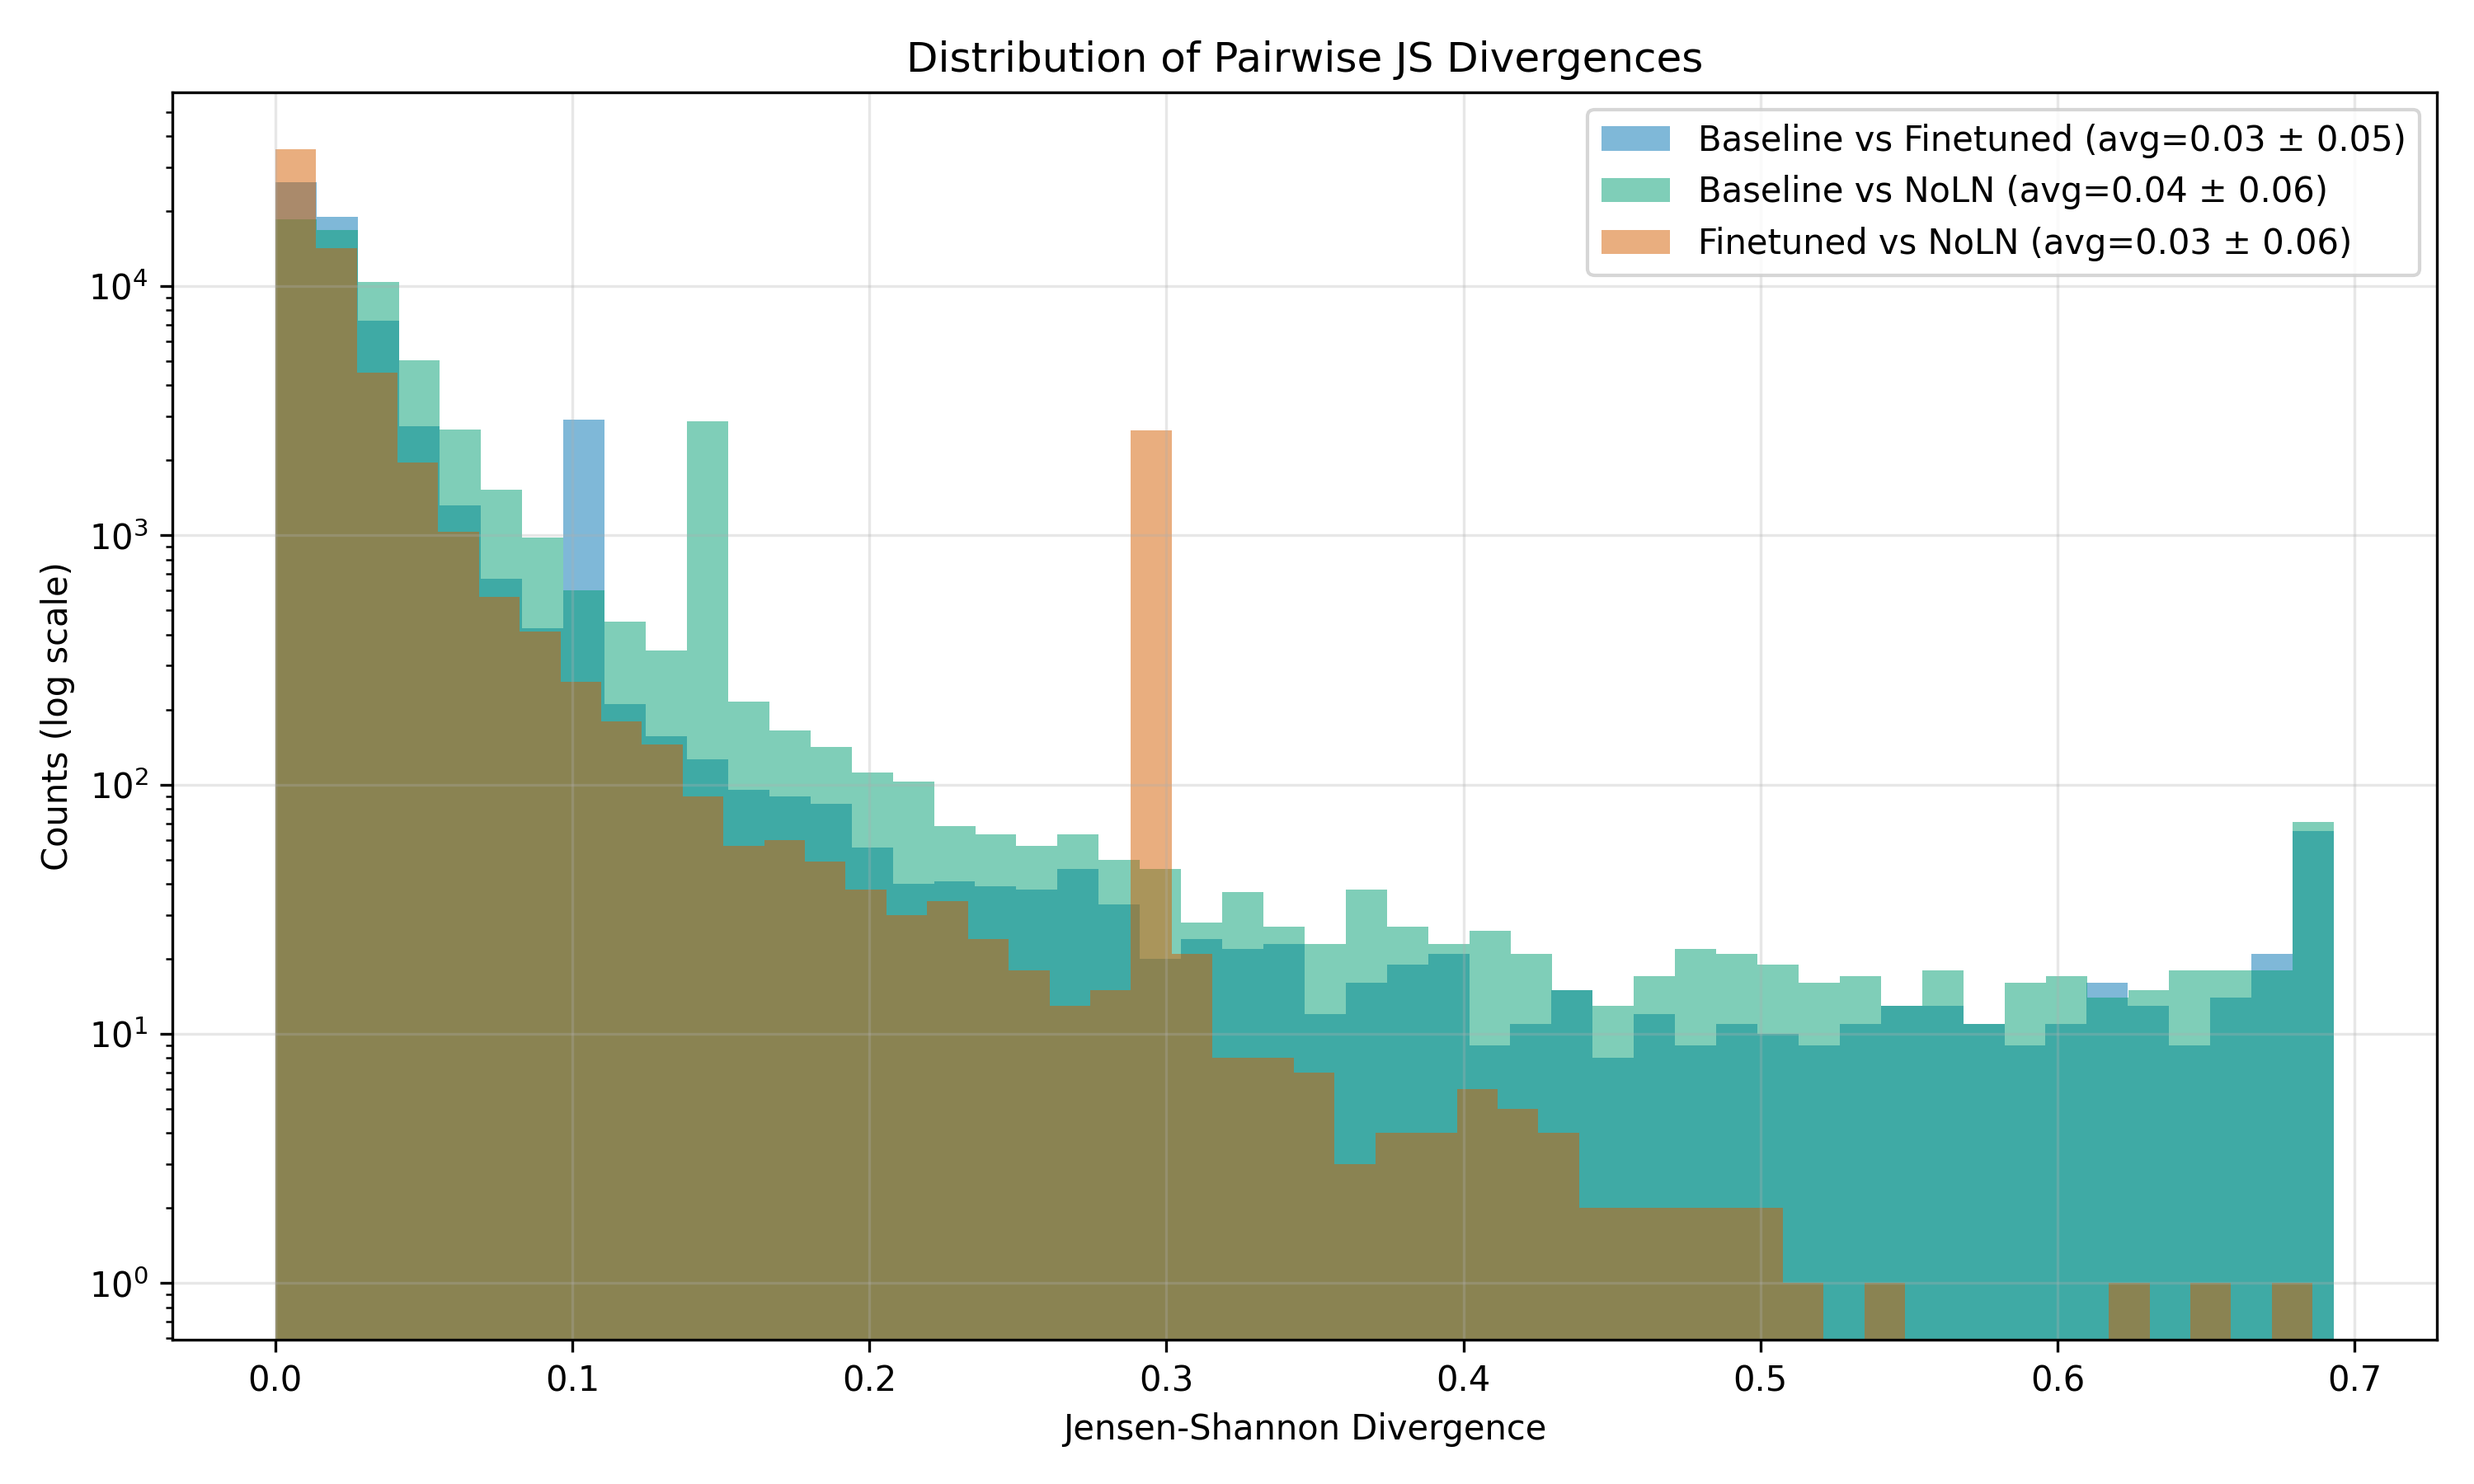
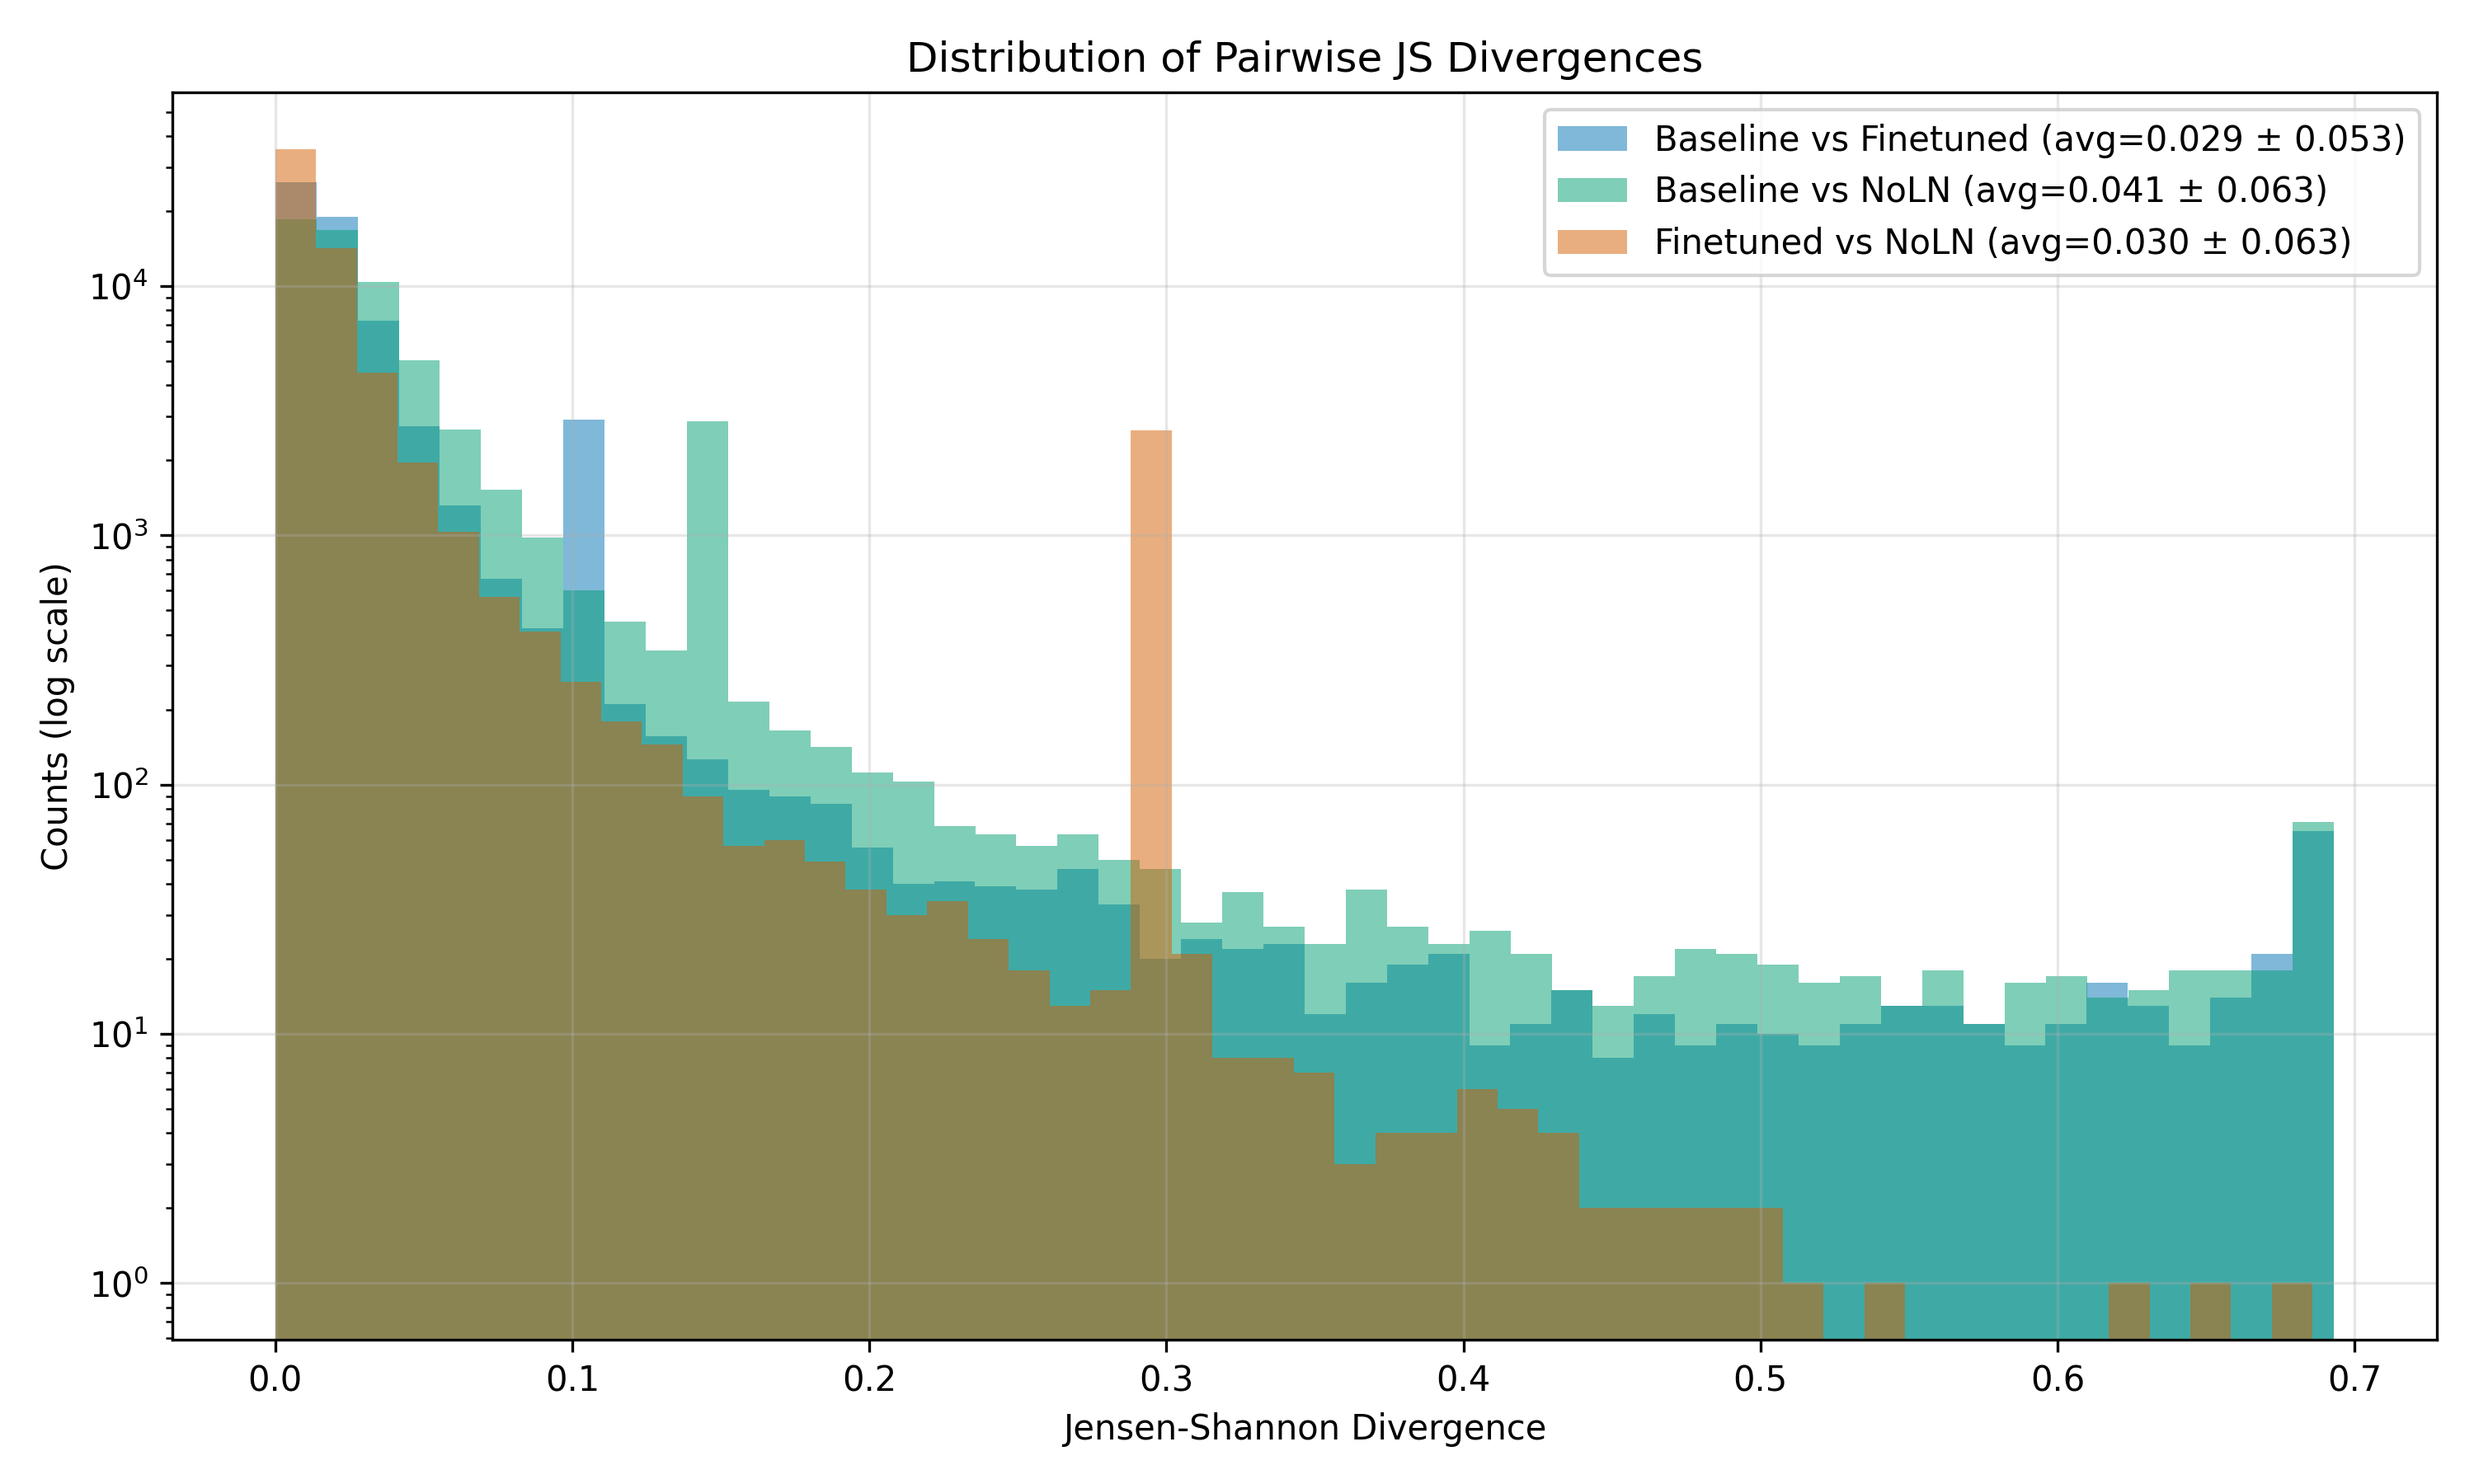
added calibration plot

Changed region(s): [[0.62, 0.0622, 0.961, 0.1867]]

diff --git a/mech_interp/analysis/gpt2-small/model_comparison.py b/mech_interp/analysis/gpt2-small/model_comparison.py
@@ -7,10 +7,10 @@ import matplotlib.pylab as plt
 import seaborn as sns
 
 # %%
-df = pd.read_parquet('../data/pile_sub_l256-512_s16.parquet')
-baseline = np.load('../experiments/softmax_probabilities_baseline.npy')
-finetuned = np.load('../experiments/softmax_probabilities_finetuned.npy')
-noLN = np.load('../experiments/softmax_probabilities_nln.npy')
+df = pd.read_parquet('../../data/pile_sub_l256-512_s16.parquet')
+baseline = np.load('../../experiments/softmax_probabilities_baseline.npy')
+finetuned = np.load('../../experiments/softmax_probabilities_finetuned.npy')
+noLN = np.load('../../experiments/softmax_probabilities_nln.npy')
 
 # %%
 # Ensure each model's probabilities sum to one for each sample
@@ -220,11 +220,11 @@ plt.style.use('seaborn-v0_8-colorblind')
 plt.figure(figsize=(10, 6))
 
 plt.hist(js_baseline_finetuned, bins=50, alpha=0.5,
-         label=f'Baseline vs Finetuned (avg={js_baseline_finetuned.mean():.2f} ± {js_baseline_finetuned.std():.2f})')
+         label=f'Baseline vs Finetuned (avg={js_baseline_finetuned.mean():.3f} ± {js_baseline_finetuned.std():.3f})')
 plt.hist(js_baseline_noln, bins=50, alpha=0.5,
-         label=f'Baseline vs NoLN (avg={js_baseline_noln.mean():.2f} ± {js_baseline_noln.std():.2f})')
+         label=f'Baseline vs NoLN (avg={js_baseline_noln.mean():.3f} ± {js_baseline_noln.std():.3f})')
 plt.hist(js_finetuned_noln, bins=50, alpha=0.5,
-         label=f'Finetuned vs NoLN (avg={js_finetuned_noln.mean():.2f} ± {js_finetuned_noln.std():.2f})')
+         label=f'Finetuned vs NoLN (avg={js_finetuned_noln.mean():.3f} ± {js_finetuned_noln.std():.3f})')
 
 plt.yscale('log')
 plt.xlabel('Jensen-Shannon Divergence')
@@ -234,6 +234,38 @@ plt.legend()
 plt.grid(True, alpha=0.3)
 plt.tight_layout()
 plt.savefig('js_per_model.png', dpi=300)
+plt.show()
+
+# %%
+# Plot by sequence length bins
+plt.style.use('seaborn-v0_8-colorblind')
+fig, axes = plt.subplots(2, 3, figsize=(15, 10))
+axes = axes.ravel()
+
+bins = [(0, 50), (50, 100), (100, 200), (200, 300), (300, 400), (400, 500)]
+
+for i, (start, end) in enumerate(bins):
+    mask = (df.sequence_length >= start) & (df.sequence_length < end)
+    
+    if not mask.any():
+        continue
+        
+    axes[i].hist(js_baseline_finetuned[mask], bins=50, alpha=0.5,
+                 label=f'Baseline vs Finetuned (avg={js_baseline_finetuned[mask].mean():.3f} ± {js_baseline_finetuned[mask].std():.3f})')
+    axes[i].hist(js_baseline_noln[mask], bins=50, alpha=0.5,
+                 label=f'Baseline vs NoLN (avg={js_baseline_noln[mask].mean():.3f} ± {js_baseline_noln[mask].std():.3f})')
+    axes[i].hist(js_finetuned_noln[mask], bins=50, alpha=0.5,
+                 label=f'Finetuned vs NoLN (avg={js_finetuned_noln[mask].mean():.3f} ± {js_finetuned_noln[mask].std():.3f})')
+    
+    axes[i].set_yscale('log')
+    axes[i].set_xlabel('JS Divergence')
+    axes[i].set_ylabel('Count (log scale)')
+    axes[i].set_title(f'Sequence Length {start}-{end}\n(n={mask.sum():,})')
+    axes[i].legend()
+    axes[i].grid(True, alpha=0.3)
+
+plt.tight_layout()
+plt.savefig('js_per_model_by_seqlen.png', dpi=300)
 plt.show()
 
 # %%
@@ -263,25 +295,71 @@ plt.savefig('js_delta_ce_corr.png', dpi=300)
 plt.show()
 
 # %%
-raw_df = pd.read_parquet('../data/raw_pile10k.parquet')
-n_examples = 300
-top_fn_idx = set(np.argsort(js_finetuned_noln)[-n_examples:])
+def compute_calibration_error(probs, targets, n_bins=10):
+    """
+    Compute Expected Calibration Error with equally spaced bins
+    """
+    # Get confidence (max probability) and predictions
+    confidences = np.max(probs, axis=1)
+    predictions = np.argmax(probs, axis=1)
+    accuracies = predictions == targets
+    
+    # Create equally spaced bins
+    bin_edges = np.linspace(0, 1, n_bins + 1)  # creates [0, 0.1, 0.2, ..., 0.9, 1.0]
+    bin_indices = np.digitize(confidences, bin_edges) - 1
+    
+    # Initialize arrays for results
+    bin_accuracies = np.zeros(n_bins)
+    bin_confidences = np.zeros(n_bins)
+    bin_sizes = np.zeros(n_bins)
+    
+    # Calculate calibration for each bin
+    for i in range(n_bins):
+        mask = bin_indices == i
+        if mask.any():
+            bin_sizes[i] = mask.sum()
+            bin_accuracies[i] = accuracies[mask].mean()
+            bin_confidences[i] = confidences[mask].mean()
+    
+    # Calculate ECE
+    ece = np.sum(np.abs(bin_accuracies - bin_confidences) * (bin_sizes / len(confidences)))
+    
+    return ece, bin_confidences, bin_accuracies, bin_sizes
 
-# Find overlaps
-all_three = top_fn_idx
+# Calculate calibration for each model
+baseline_cal = compute_calibration_error(baseline, df.target_token)
+finetuned_cal = compute_calibration_error(finetuned, df.target_token)
+noln_cal = compute_calibration_error(noLN, df.target_token)
 
-print(f"Sequences in all three sets: {len(all_three)}")
-if len(all_three) > 0:
-    print("\nDetails for sequences that all models disagree on most:")
-    for idx in all_three:
-        orig_idx = df.iloc[idx].original_sequence_id
-        print(f"\n{'='*80}")
-        print(f"Index {idx} (Original ID: {orig_idx})")
-        print(f"Sequence length: {df.sequence_length.iloc[idx]}")
-        print(f"JS divergences:")
-        print(f"  Baseline vs Finetuned: {js_baseline_finetuned[idx]:.2f}")
-        print(f"  Baseline vs NoLN: {js_baseline_noln[idx]:.2f}")
-        print(f"  Finetuned vs NoLN: {js_finetuned_noln[idx]:.2f}")
-        print(f"\nOriginal text:")
-        print(raw_df.iloc[orig_idx].text)
+
+# %%
+# Plot calibration curves
+plt.style.use('seaborn-v0_8-colorblind')
+plt.figure(figsize=(10, 6))
+
+# Plot perfect calibration line
+plt.plot([0, 1], [0, 1], 'k--', label='Perfect calibration')
+
+# Plot each model's calibration
+plt.plot(baseline_cal[1], baseline_cal[2], 'o-', label=f'Baseline (ECE={baseline_cal[0]:.4f})')
+plt.plot(finetuned_cal[1], finetuned_cal[2], 'o-', label=f'Finetuned (ECE={finetuned_cal[0]:.4f})')
+plt.plot(noln_cal[1], noln_cal[2], 'o-', label=f'No LayerNorm (ECE={noln_cal[0]:.4f})')
+
+plt.xlabel('Confidence')
+plt.ylabel('Accuracy')
+plt.title('Calibration Curves')
+plt.legend()
+plt.grid(True, alpha=0.3)
+plt.tight_layout()
+plt.savefig("calibration_per_model.png", dpi=300)
+plt.show()
+
+# Print bin information
+print("\nBin Information:")
+print(f"{'Bin Range':<12} {'Baseline':>12} {'Finetuned':>12} {'NoLN':>12}")
+print("-" * 50)
+for i in range(10):
+    bin_start = i/10
+    bin_end = (i+1)/10
+    print(f"{f'{bin_start:.1f}-{bin_end:.1f}':<12} {baseline_cal[3][i]:>12,.0f} {finetuned_cal[3][i]:>12,.0f} {noln_cal[3][i]:>12,.0f}")
 # %%
